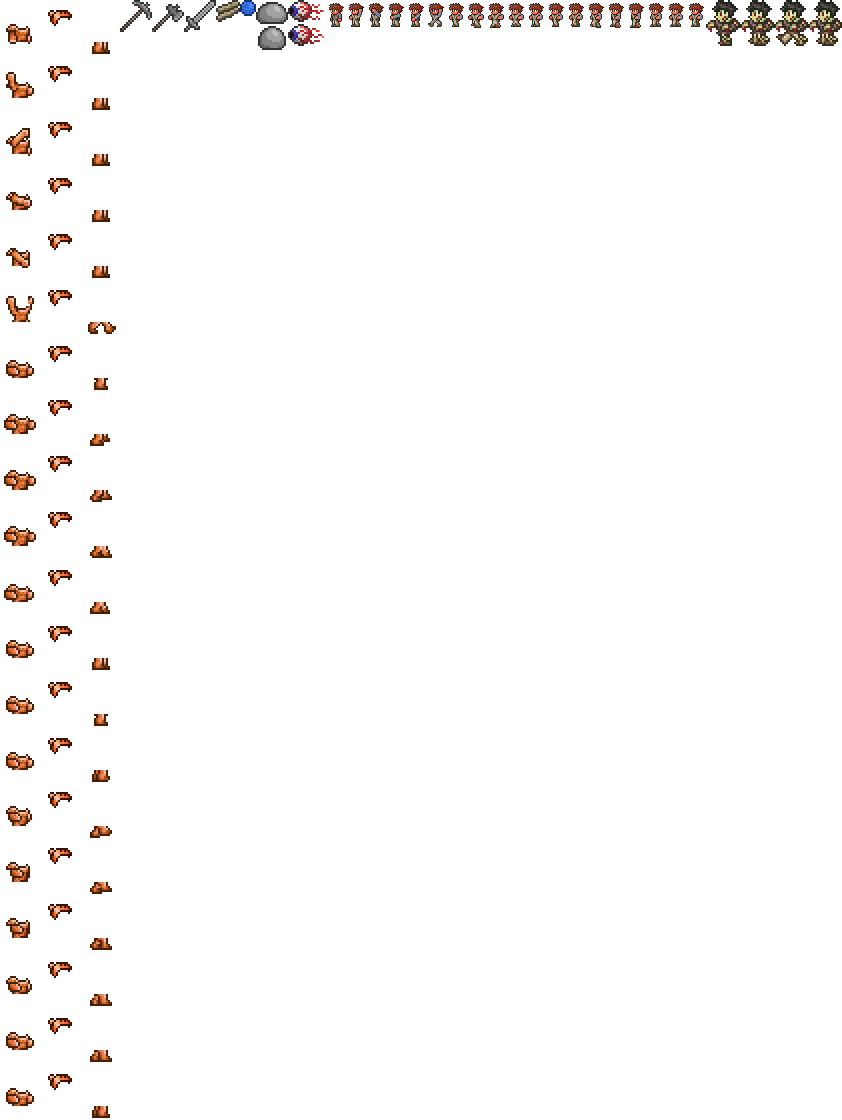
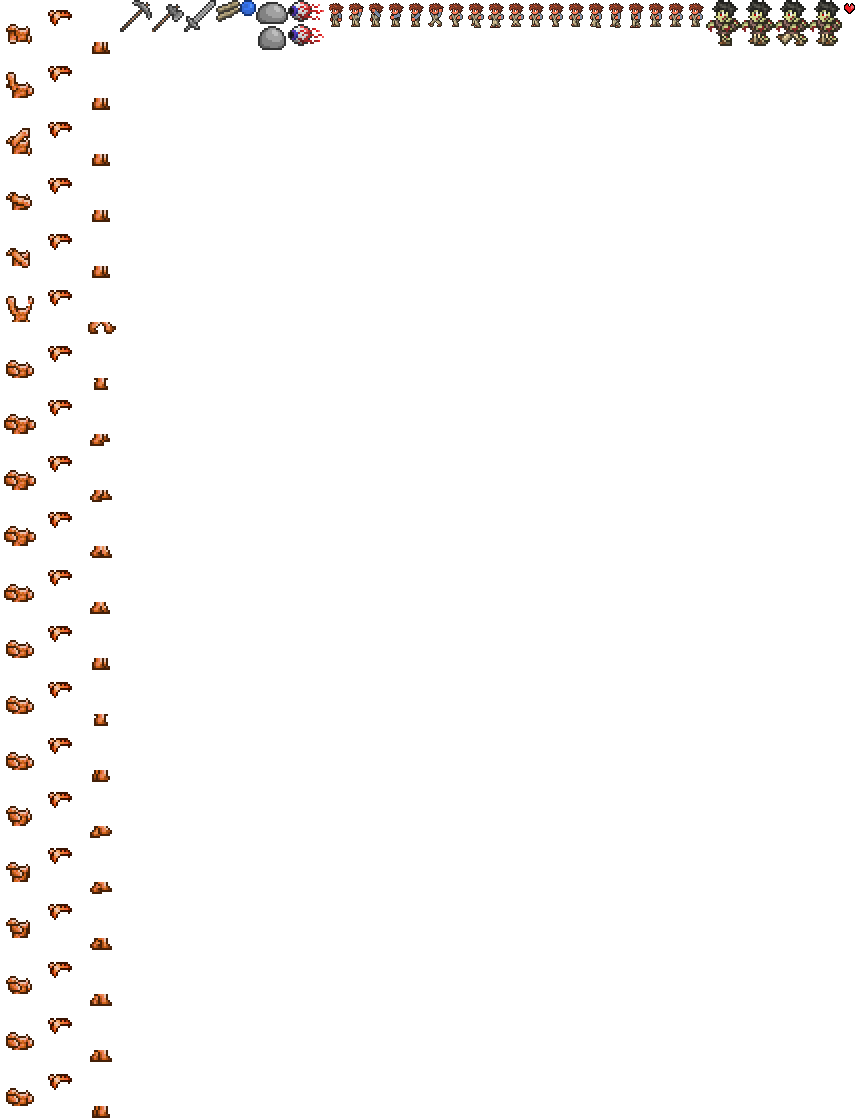
Added life stat

diff --git a/src/Game.cpp b/src/Game.cpp
@@ -9,6 +9,7 @@
 #include "rlImGui.h"
 
 #include <cmath>
+#include <functional>
 #include <future>
 #include <iostream>
 #include <ostream>
@@ -24,11 +25,12 @@ void Game::init(){
   Textures::load();
   this->noise = ValueNoise1D();
   this->noise2d = PerlinNoise();
+  this->whichCycle = false;
   isChunkLoaded[(int)this->player.getPos().x/settings::CHUNK_SIZE ] = true;
   //std::cout << "ll: " << this->player.getPos().x/settings::CHUNK_SIZE << std::endl;
   ChunkLoader::loadChunk(this->map, this->player.getPos().x/settings::CHUNK_SIZE , this->noise, this->noise2d);
   this->time = 254.0f;
-  this->light_thread = std::async(std::launch::async, &LightHandler::run, &lightHandler, std::ref(this->player), this->map, this->time);
+  this->light_thread = std::async(std::launch::async, &LightHandler::run, &lightHandler, std::ref(this->player), this->map, std::ref(this->time));
   this->state = HOME;
   this->is_running = true;
   this->first_zombie.init(&this->player.pos);
@@ -37,9 +39,10 @@ void Game::init(){
 void Game::update(float deltaTime){
 
   if (this->state != GameState::IN_GAME) return;
-  this->time -= 100.0f*deltaTime;
+  this->time -= (this->whichCycle ? 1 : -1 ) * 6.0f*deltaTime;
   //std::cout << this->time << " " << deltaTime << std::endl;
-  if (this->time <= 0) this->time = 255;
+  if (this->time < 0) this->whichCycle = false;
+  if (this->time > 255) this->whichCycle = true;
 
   player.update(map, deltaTime);
   mouse_pos = GetMousePosition();
@@ -81,7 +84,7 @@ void Game::render(){
   float player_background_y = (player.pos.y/settings::MAP_HEIGHT/4)*838;
   //std::cout << "player: " << player.pos.y << std::endl;
   DrawTexturePro(Textures::backgroundForest, {0,player_background_y, 1024, (float)settings::SCREEN_HEIGHT/3}, 
-                 {0,0, (float)settings::SCREEN_WIDTH, (float)settings::SCREEN_HEIGHT}, {0,0}, 0, {(int)time, (int)time, (int)time, 255});
+                 {0,0, (float)settings::SCREEN_WIDTH, (float)settings::SCREEN_HEIGHT}, {0,0}, 0, {(unsigned char )time, (unsigned char)time, (unsigned char)time, 255});
   Vector2 starting_point = {(floor(this->player.getPos().x) - this->player.getPos().x)*settings::BLOCK_SIZE_X, 
                             (floor(this->player.getPos().y) - this->player.getPos().y)*settings::BLOCK_SIZE_Y};
 
@@ -141,7 +144,7 @@ void Game::renderInGameUI(){
 
   ImVec2 vec = ImVec2(settings::SCREEN_WIDTH/256, slotSize.y-settings::SCREEN_HEIGHT/32);
   ImGui::SetNextWindowPos(vec);
-  ImGui::Begin("Inventory", nullptr, ImGuiWindowFlags_NoBackground | ImGuiWindowFlags_NoDecoration);
+  ImGui::Begin("Inventory", nullptr, ImGuiWindowFlags_NoBackground | ImGuiWindowFlags_NoDecoration );
   ImGui::PushStyleVar(ImGuiStyleVar_ItemSpacing, ImVec2(4, 0));
   //if (player.getShowInventory()) ImGui::ShowDemoWindow();  
   for (int j = 0; j < (player.getShowInventory() ? settings::N_INVENTORY_ROWS : 1); j++) { 
@@ -219,6 +222,14 @@ void Game::renderInGameUI(){
       if (i < settings::N_INVENTORY_COLUMNS-1)
         ImGui::SetCursorScreenPos(ImVec2(slotPos.x + slotSize.x + ImGui::GetStyle().ItemSpacing.x, slotPos.y));
     }
+  }
+  // hearth
+  ImVec2 vec2 = ImVec2(settings::SCREEN_WIDTH-32*settings::N_HEARTS, slotSize.y-settings::SCREEN_HEIGHT/32);
+  for (float i = 1; i < settings::N_HEARTS+1; i++) {
+    if (player.getLife() < i/(float)settings::N_HEARTS) break;
+    ImGui::SetCursorScreenPos(ImVec2(vec2.x, vec2.y));
+    rlImGuiImageRect(&Textures::item_entities_atlas, 32, 32, {842, 0, 16, 16});
+    vec2.x += 32;
   }
 
   ImGui::PopStyleVar();
@@ -345,13 +356,15 @@ void Game::renderTile(int i, int j, int xTile, int yTile, unsigned char type, Ve
     }
     DrawTexturePro(Textures::all_atlas, 
                    tileRect,
-                   {(float)i, (float)j, (float)settings::BLOCK_SIZE_X*1.2f, (float)settings::BLOCK_SIZE_Y*1.2f+1}, {0,0}, 0, type == WALL_DIRT ? GRAY : WHITE);
+                   {(float)i, (float)j, (float)settings::BLOCK_SIZE_X*1.2f, (float)settings::BLOCK_SIZE_Y*1.2f+1}, {0,0}, 0,
+                   lightHandler.getLightValue((i-starting_point.x)/settings::BLOCK_SIZE_X, (j-starting_point.y)/settings::BLOCK_SIZE_Y, type));
 
   }else if (type != 0){
     DrawTexturePro(Textures::all_atlas, 
                    {(float)Textures::topTreeAtlas, 0, 82, 82},
                    {(float)i- settings::BLOCK_SIZE_X*2.3f, (float)j-(float)settings::BLOCK_SIZE_Y*1.9f, 
-                   (float)settings::BLOCK_SIZE_X*6, (float)settings::BLOCK_SIZE_Y*5}, {0,0}, 0, WHITE);
+                   (float)settings::BLOCK_SIZE_X*6, (float)settings::BLOCK_SIZE_Y*5}, {0,0}, 0, 
+                   lightHandler.getLightValue((i-starting_point.x)/settings::BLOCK_SIZE_X, (j-starting_point.y)/settings::BLOCK_SIZE_Y, type));
 
   }
 

diff --git a/src/Player.cpp b/src/Player.cpp
@@ -13,6 +13,7 @@ Player::Player(){
   this->pos = {400, 250};
   selected_item = 0;
   this->toolAnimation = 0;
+  this->life = 1.0f;
   for (int i = 0; i < settings::N_INVENTORY_ROWS; i++) 
     for (int j = 0; j < settings::N_INVENTORY_COLUMNS+1; j++) 
       inventory[i][j] = {EMPTY, 1, EMPTY_TOOL, 0};
@@ -157,4 +158,6 @@ bool Player::getShowInventory(){
 PlayerItem Player::getInventoryItem(int i, int j){
   return inventory[i][j];
 }
-
+float Player::getLife(){
+  return this->life;
+}

diff --git a/src/include/Player.hpp b/src/include/Player.hpp
@@ -14,7 +14,7 @@ private:
   Vector2 force;
   bool isInventoryOpen;
   PlayerItem inventory[settings::N_INVENTORY_ROWS][settings::N_INVENTORY_COLUMNS+1];
-
+  float life;
 public:
   Vector2 pos;
   int selected_item;
@@ -36,4 +36,5 @@ public:
   Vector2 getPos();
   bool getShowInventory();
   PlayerItem getInventoryItem(int i, int j);
+  float getLife();
 };

diff --git a/src/include/Settings.hpp b/src/include/Settings.hpp
@@ -28,6 +28,7 @@ constexpr int NOISE_VARIABILITY = 40;
 
 constexpr int N_INVENTORY_ROWS  = 4;
 constexpr int N_INVENTORY_COLUMNS  = 9;
+constexpr int N_HEARTS = 6;
 
 void init_settings();
 void setWindowSettings(int width, int height);

diff --git a/src/include/Game.hpp b/src/include/Game.hpp
@@ -24,6 +24,7 @@ private:
   GameState state;
   bool is_running;
   float time;
+  bool whichCycle = 0;
 
   ValueNoise1D noise; // 1d perlin noise (like yeah...)
   PerlinNoise noise2d; // 2d perlin noise (like yeah.)

diff --git a/src/Zombie.cpp b/src/Zombie.cpp
@@ -12,6 +12,7 @@ Zombie::Zombie(){
   this->force = {0,0};
   this->animationFrame = 0;
   this->needsJump = false;
+  this->life = 1.0f
 }
 void Zombie::init(Vector2 *new_target){
   this->target = new_target;

diff --git a/src/include/Zombie.hpp b/src/include/Zombie.hpp
@@ -14,6 +14,7 @@ private:
   bool needsJump;
   Vector2 force;
   Vector2 *target;
+  float life;
 
 public:
   Vector2 pos;
